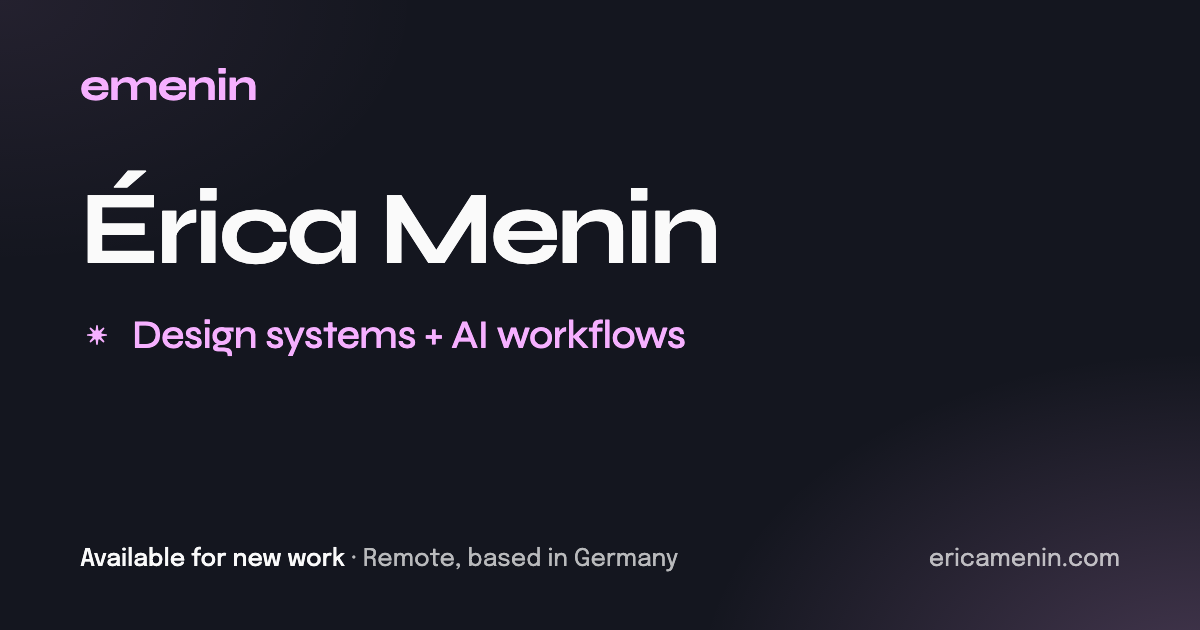
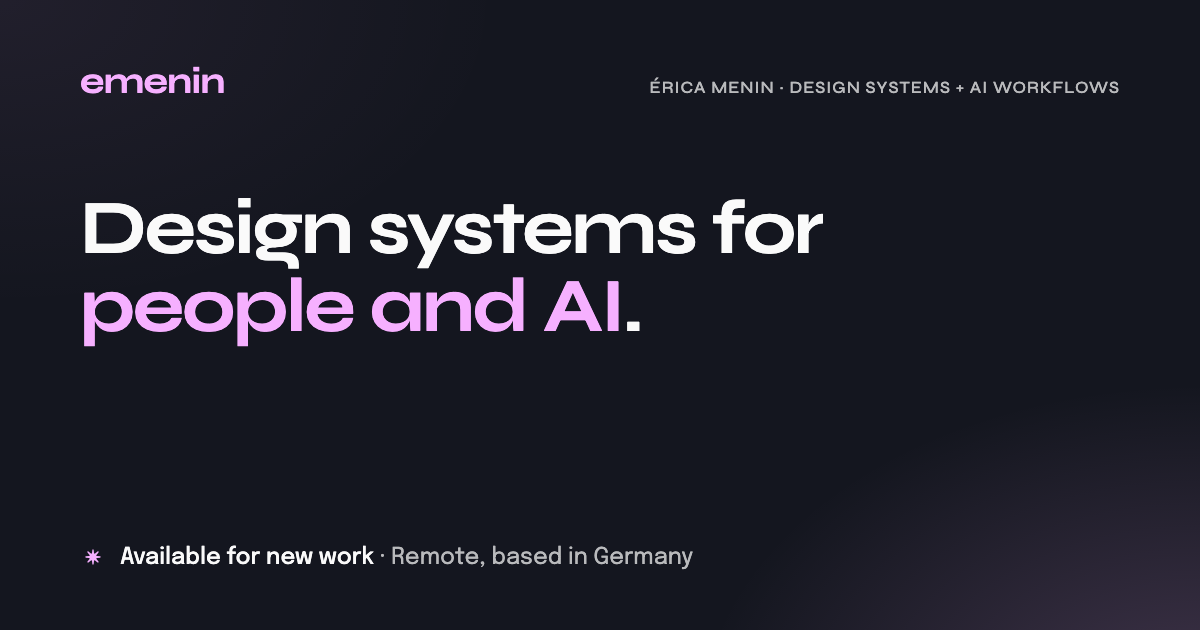
Share image leads with the positioning, name small; hero gets a quick staggered entrance

diff --git a/css/components.css b/css/components.css
@@ -2037,9 +2037,36 @@ site-footer {
 }
 
 /* ---- Hero motion -------------------------------------------------------------
-   Tokens on hover (js/hero.js); the pointer glow lives in components.js. */
+   A quick entrance, tokens on hover (js/hero.js); the pointer glow lives in
+   components.js. The entrance starts at once and is over in under a second:
+   each line rises into place a beat after the one above. */
 .hero-inner {
   position: relative;
+}
+
+@media (prefers-reduced-motion: no-preference) {
+  .hero-built > * {
+    animation: hero-in 0.7s cubic-bezier(0.22, 1, 0.36, 1) both;
+  }
+
+  .hero-built > :nth-child(2) {
+    animation-delay: 0.08s;
+  }
+
+  .hero-built > :nth-child(3) {
+    animation-delay: 0.18s;
+  }
+
+  .hero-built > :nth-child(4) {
+    animation-delay: 0.28s;
+  }
+}
+
+@keyframes hero-in {
+  from {
+    opacity: 0;
+    translate: 0 14px;
+  }
 }
 
 /* Tokens on hover: each piece of the hero shows the tokens it is built from.

diff --git a/js/hero.js b/js/hero.js
@@ -89,4 +89,7 @@
   (document.fonts ? document.fonts.ready : Promise.resolve()).then(build);
   window.addEventListener('load', build);
   window.addEventListener('resize', build);
+  built.addEventListener('animationend', function (event) {
+    if (event.target.parentNode === built) build();
+  });
 })();
